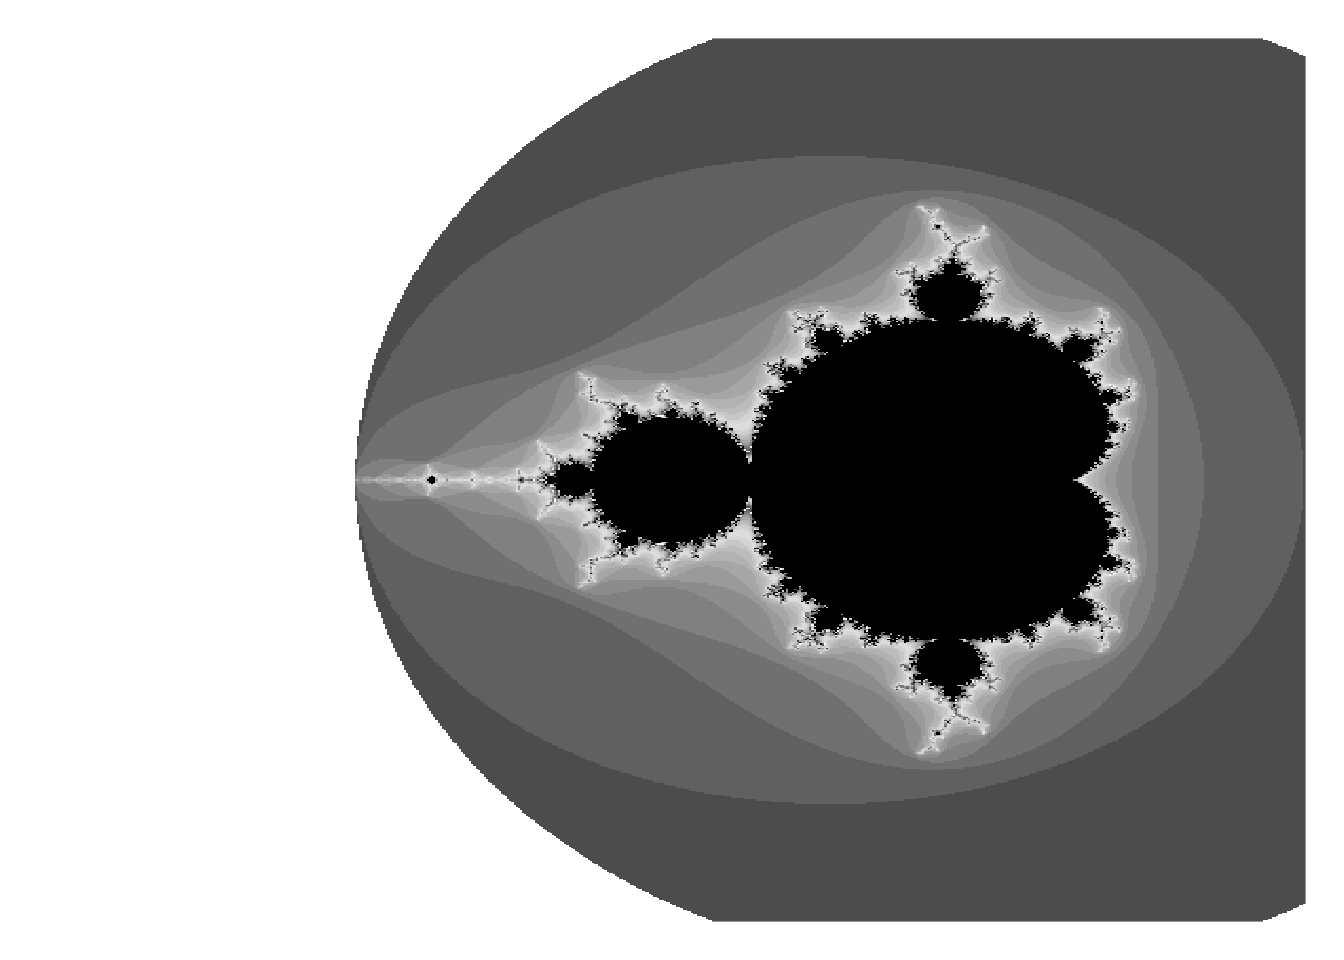
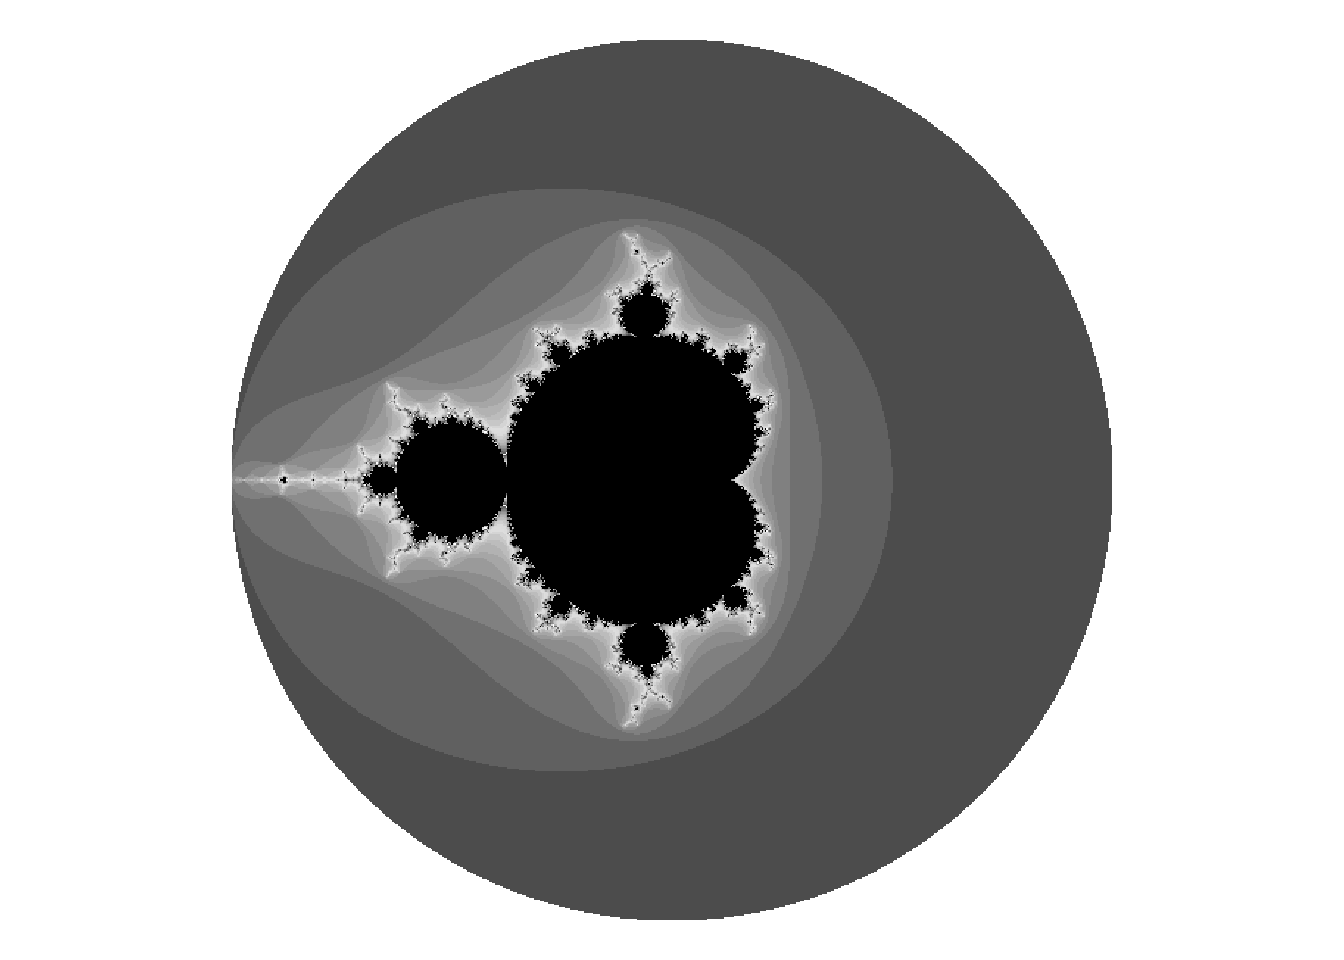
mandelbrot0 faster interface (#2)

diff --git a/docs/reference/mandelbrot.html b/docs/reference/mandelbrot.html
@@ -74,10 +74,13 @@
 
     
     <p>Generates a view on the Mandelbrot set
-using an underlying C function</p>
+using an underlying C function.</p>
     
 
-    <pre class="usage"><span class='fu'>mandelbrot</span>(<span class='kw'>xlim</span> <span class='kw'>=</span> <span class='fu'>c</span>(-<span class='fl'>3</span>, <span class='fl'>1</span>), <span class='kw'>ylim</span> <span class='kw'>=</span> <span class='fu'>c</span>(-<span class='fl'>1.8</span>, <span class='fl'>1.8</span>), <span class='kw'>resolution</span> <span class='kw'>=</span> <span class='fl'>600</span>,
+    <pre class="usage"><span class='fu'>mandelbrot</span>(<span class='kw'>xlim</span> <span class='kw'>=</span> <span class='fu'>c</span>(-<span class='fl'>2</span>, <span class='fl'>2</span>), <span class='kw'>ylim</span> <span class='kw'>=</span> <span class='fu'>c</span>(-<span class='fl'>2</span>, <span class='fl'>2</span>), <span class='kw'>resolution</span> <span class='kw'>=</span> <span class='fl'>600</span>,
+  <span class='kw'>iterations</span> <span class='kw'>=</span> <span class='fl'>50</span>)
+
+<span class='fu'>mandelbrot0</span>(<span class='kw'>xlim</span> <span class='kw'>=</span> <span class='fu'>c</span>(-<span class='fl'>2</span>, <span class='fl'>2</span>), <span class='kw'>ylim</span> <span class='kw'>=</span> <span class='fu'>c</span>(-<span class='fl'>2</span>, <span class='fl'>2</span>), <span class='kw'>resolution</span> <span class='kw'>=</span> <span class='fl'>600</span>,
   <span class='kw'>iterations</span> <span class='kw'>=</span> <span class='fl'>50</span>)</pre>
     
     <h2 class="hasAnchor" id="arguments"><a class="anchor" href="#arguments"></a> Arguments</h2>
@@ -104,13 +107,38 @@ evaluate each case</p></td>
     </tr>
     </table>
     
+    <h2 class="hasAnchor" id="value"><a class="anchor" href="#value"></a>Value</h2>
+
+    <p>a <code>mandelbrot</code> structure with components: <code>x</code> a vector
+  of the real parts of the x-axis; <code>y</code> the imaginary parts of each
+  number (the y-axis); <code>z</code> a matrix of the number of iterations that
+  \(|z|&lt;2\)</p>
+    
     <h2 class="hasAnchor" id="details"><a class="anchor" href="#details"></a>Details</h2>
 
-    <p>Original code by Mario dos Reis, September 2003.</p>
+    <p><code>mandelbrot0</code> is an experimental interface
+for generating tidy data.frames faster than
+<code>as.data.frame(mandelbrot())</code>.</p>
+    
+    <h2 class="hasAnchor" id="mandelbrot-set"><a class="anchor" href="#mandelbrot-set"></a>Mandelbrot set</h2>
+
+    
+    <p>In brief, the Mandelbrot set contains the complex numbers
+where the 0 orbit of the following function remains
+bounded (\(&lt;2\)):
+$$f_{z+1} = z^2 + c$$</p>
+<p>For information and discussion on the Mandelbrot and
+related sets, one great resource is <a href='https://plus.maths.org/content/unveiling-mandelbrot-set'>plus.maths.org</a>. There's also a popular <a href='https://www.youtube.com/watch?v=NGMRB4O922I'>YouTube video by Numberphile</a>.</p>
+    
+    <h2 class="hasAnchor" id="credits"><a class="anchor" href="#credits"></a>Credits</h2>
+
+    
+    <p>Wraps original C code by Mario dos Reis, September 2003.</p>
     
     <h2 class="hasAnchor" id="references"><a class="anchor" href="#references"></a>References</h2>
 
-    <p><a href='http://people.cryst.bbk.ac.uk/~fdosr01/Rfractals/index.html'>http://people.cryst.bbk.ac.uk/~fdosr01/Rfractals/index.html</a></p>
+    <p><a href='https://stat.ethz.ch/pipermail/r-help/2003-October/039773.html'>https://stat.ethz.ch/pipermail/r-help/2003-October/039773.html</a>
+  <a href='http://people.cryst.bbk.ac.uk/~fdosr01/Rfractals/index.html'>http://people.cryst.bbk.ac.uk/~fdosr01/Rfractals/index.html</a></p>
     
 
   </div>
@@ -119,14 +147,16 @@ evaluate each case</p></td>
     <ul class="nav nav-pills nav-stacked">
       <li><a href="#arguments">Arguments</a></li>
       
+      <li><a href="#value">Value</a></li>
+
       <li><a href="#details">Details</a></li>
+
+      <li><a href="#mandelbrot-set">Mandelbrot set</a></li>
+
+      <li><a href="#credits">Credits</a></li>
 
       <li><a href="#references">References</a></li>
           </ul>
-
-    <h2>Author</h2>
-    
-Mario dos Reis
 
   </div>
 </div>

diff --git a/docs/reference/plot.mandelbrot.html b/docs/reference/plot.mandelbrot.html
@@ -78,7 +78,7 @@
 
     <pre class="usage"><span class='co'># S3 method for mandelbrot</span>
 <span class='fu'>plot</span>(<span class='no'>mandelbrot</span>, <span class='kw'>col</span> <span class='kw'>=</span> <span class='fu'><a href='mandelbrot_palette.html'>mandelbrot_palette</a></span>(<span class='fu'>c</span>(<span class='st'>"white"</span>,
-  <span class='fu'>grey.colors</span>(<span class='fl'>50</span>))), <span class='kw'>transform</span> <span class='kw'>=</span> <span class='fu'>c</span>(<span class='st'>"none"</span>, <span class='st'>"inverse"</span>, <span class='st'>"log"</span>))</pre>
+  <span class='fu'>grey.colors</span>(<span class='fl'>50</span>))), <span class='kw'>transform</span> <span class='kw'>=</span> <span class='fu'>c</span>(<span class='st'>"none"</span>, <span class='st'>"inverse"</span>, <span class='st'>"log"</span>), <span class='no'>...</span>)</pre>
     
     <h2 class="hasAnchor" id="arguments"><a class="anchor" href="#arguments"></a> Arguments</h2>
     <table class="ref-arguments">

diff --git a/docs/index.html b/docs/index.html
@@ -63,7 +63,7 @@
 <div class="sourceCode"><pre class="sourceCode r"><code class="sourceCode r"><span class="kw">library</span>(mandelbrot)
 
 mb &lt;-<span class="st"> </span><span class="kw"><a href="reference/mandelbrot.html">mandelbrot</a></span>()
-<span class="kw">plot</span>(mb)</code></pre></div>
+<span class="kw">plot</span>(mb, <span class="dt">asp =</span> <span class="dv">1</span>)</code></pre></div>
 <p><img src="figs/README-b_n_w-1.png" width="672"></p>
 <p>Trippy colours:</p>
 <div class="sourceCode"><pre class="sourceCode r"><code class="sourceCode r">mb &lt;-<span class="st"> </span><span class="kw"><a href="reference/mandelbrot.html">mandelbrot</a></span>(<span class="dt">xlim =</span> <span class="kw">c</span>(-<span class="fl">0.8438146</span>, -<span class="fl">0.8226294</span>),

diff --git a/docs/reference/mandelbrot_palette.html b/docs/reference/mandelbrot_palette.html
@@ -77,7 +77,7 @@
 it for use with Mandelbrot sets.</p>
     
 
-    <pre class="usage"><span class='fu'>mandelbrot_palette</span>(<span class='no'>palette</span>, <span class='kw'>in_set</span> <span class='kw'>=</span> <span class='st'>"black"</span>)</pre>
+    <pre class="usage"><span class='fu'>mandelbrot_palette</span>(<span class='no'>palette</span>, <span class='kw'>folds</span> <span class='kw'>=</span> <span class='fl'>2</span>, <span class='kw'>in_set</span> <span class='kw'>=</span> <span class='st'>"black"</span>)</pre>
     
     <h2 class="hasAnchor" id="arguments"><a class="anchor" href="#arguments"></a> Arguments</h2>
     <table class="ref-arguments">

diff --git a/docs/reference/index.html b/docs/reference/index.html
@@ -105,7 +105,7 @@
         </tr><tr>
           <!--  -->
           <td>
-            <p><code><a href="mandelbrot.html">mandelbrot</a></code> </p>
+            <p><code><a href="mandelbrot.html">mandelbrot</a></code> <code><a href="mandelbrot.html">mandelbrot0</a></code> </p>
           </td>
           <td><p>Calculate the Mandelbrot set</p></td>
         </tr><tr>

diff --git a/README.md b/README.md
@@ -22,7 +22,7 @@ Examples
 library(mandelbrot)
 
 mb <- mandelbrot()
-plot(mb)
+plot(mb, asp = 1)
 ```
 
 ![](figs/README-b_n_w-1.png)
